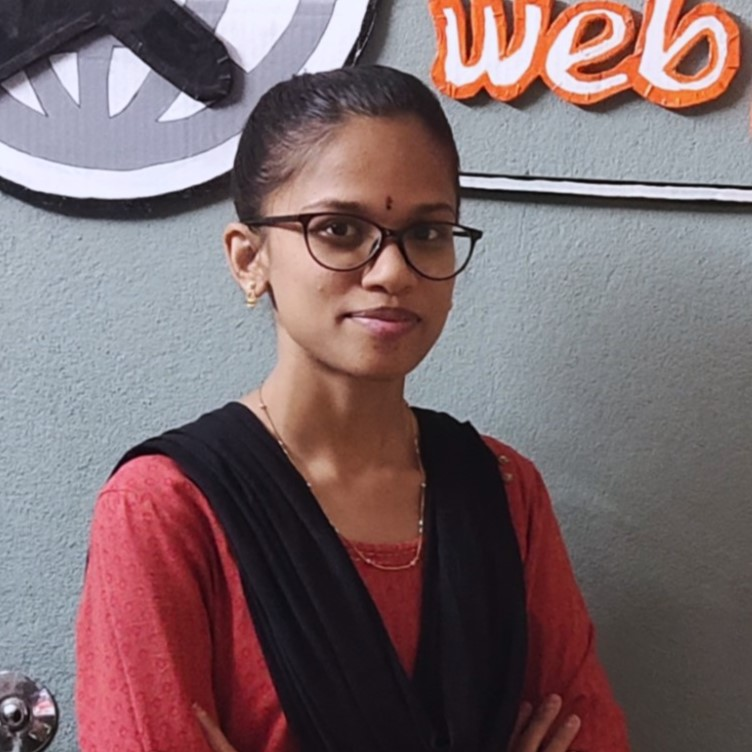
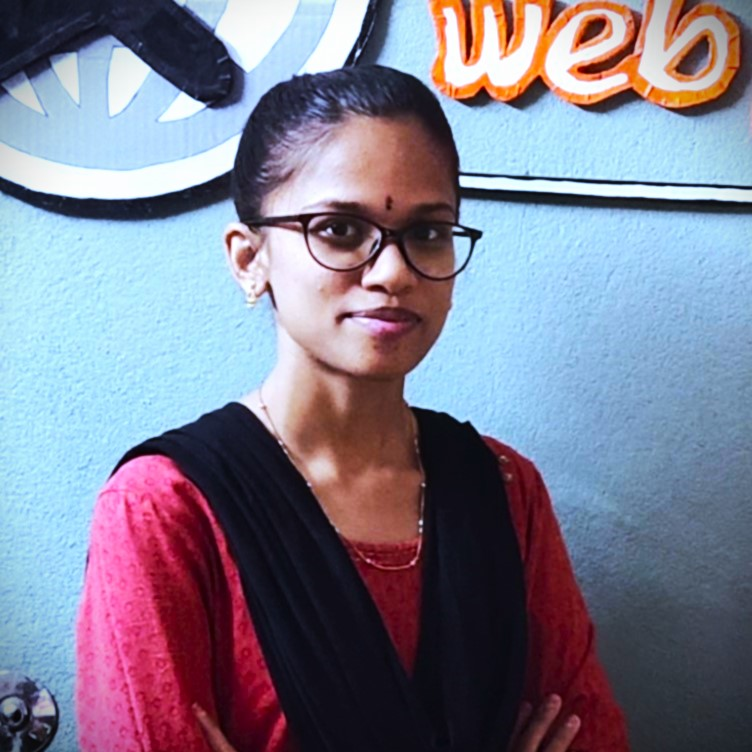
promotion

diff --git a/index.html b/index.html
@@ -254,9 +254,10 @@ https://templatemo.com/tm-588-ebook-landing
                 <div class="event-card">
                     <div class="sticker">Just ₹50</div>
                   <div class="event-title">Quizathon Night</div>
-                  <div class="event-date">09th March 2025</div>
-                  <p><b>Syllabus: </b>HTML</p>
-                  <a class="event-link" href="https://example.com" target="_blank">Register here</a>
+                  <!-- <div class="event-date">09th March 2025</div> -->
+                  <!-- <p><b>Syllabus: </b>HTML</p> -->
+                  <!-- <a class="event-link" href="https://example.com" target="_blank">Register here</a> -->
+                    <b>Launch Soon...</b>
             </div>
         </div>
         
@@ -345,7 +346,7 @@ https://templatemo.com/tm-588-ebook-landing
 
                                 <div class="mySlides fade">
 
-                                    <img src="https://res.cloudinary.com/dqg8ameoa/image/upload/v1746432518/2_wa6kfu.jpg"
+                                    <img src="https://res.cloudinary.com/dqg8ameoa/image/upload/v1747545179/WhatsApp_Image_2025-05-12_at_18.44.13_9b69c14e_qel2mx.jpg"
                                         alt="img10" style="width:100%">
 
                                 </div>
@@ -458,7 +459,7 @@ https://templatemo.com/tm-588-ebook-landing
                         <img src="./images/teamMembers/rupa.jpg" alt="" />
                         <div class="data-div">
                             <h5 style="font-weight: bold;">Rupa Sree D</h5>
-                            <b>Vice-Chairman</b>
+                            <b>Vice-Chairman & HR</b>
                         </div>
                         <div class="icons">
                             <a target="_blank" href="https://www.linkedin.com/in/dandala-rupa-sree-837731230">Linked <i
@@ -491,6 +492,18 @@ https://templatemo.com/tm-588-ebook-landing
                         </div>
                     </div>
 
+                    <div class="data">
+                        <img src="./images/teamMembers/rishi.jpg" alt="" />
+                        <div class="data-div">
+                            <h5 style="font-weight: bold;">Rishikeshav T</h5>
+                            <b>Social Media Coordinator</b>
+                        </div>
+                        <div class="icons">
+                            <a target="_blank" href="https://www.linkedin.com/in/konduru-sravan-629bb4272">Linked <i
+                                    class="fab fa-linkedin"></i></a>
+                        </div>
+                    </div>
+
                     <!-- <div class="data">
                         <img src="./images/teamMembers/bhavyareddy.jpg" alt="" />
                         <div class="data-div">
@@ -505,7 +518,7 @@ https://templatemo.com/tm-588-ebook-landing
                     </div> -->
 
 
-                    <div class="data">
+                    <!-- <div class="data">
                         <img src="./images/teamMembers/bilvini.jpg" alt="" />
                         <div class="data-div">
                             <h5 style="font-weight: bold;">Bilvini R</h5>
@@ -515,33 +528,8 @@ https://templatemo.com/tm-588-ebook-landing
                             <a target="_blank" href="https://www.linkedin.com/in/bilvini-rachamalla-96546624a">Linked <i
                                     class="fab fa-linkedin"></i></a>
                         </div>
-                    </div>
+                    </div> -->
 
-
-                    <div class="data">
-                        <img src="./images/teamMembers/bindu.jpg" alt="" />
-                        <div class="data-div">
-                            <h5 style="font-weight: bold;">Bindu A</h5>
-                            <b>Web Trainer</b>
-                        </div>
-                        <div class="icons">
-                            <a target="_blank" href="https://www.linkedin.com/in/bindu-a-b2381b25b">Linked <i
-                                    class="fab fa-linkedin"></i></a>
-                        </div>
-                    </div>
-
-
-                    <div class="data">
-                        <img src="./images/teamMembers/bhaskar.jpg" alt="" />
-                        <div class="data-div">
-                            <h5 style="font-weight: bold;">Bhaskar K</h5>
-                            <b>Web Trainer</b>
-                        </div>
-                        <div class="icons">
-                            <a target="_blank" href="https://www.linkedin.com/in/katipogula-bhaskar-33a972272">Linked <i
-                                    class="fab fa-linkedin"></i></a>
-                        </div>
-                    </div>
 
                     <!-- <div class="data">
                         <img src="./images/teamMembers/anuhya.jpg" alt="" />
@@ -594,19 +582,6 @@ https://templatemo.com/tm-588-ebook-landing
 
 
                     <div class="data">
-                        <img src="./images/teamMembers/pavan.jpg" alt="" />
-                        <div class="data-div">
-                            <h5 style="font-weight: bold;">Pavan P</h5>
-                            <b>Cyber Security Trainer</b>
-                        </div>
-                        <div class="icons">
-                            <a target="_blank" href="https://www.linkedin.com/in/pavan-kalyan-reddy-366248259/">Linked <i
-                                    class="fab fa-linkedin"></i></a>
-                        </div>
-                    </div>
-
-
-                    <div class="data">
                         <img src="./images/teamMembers/vaishnavi.jpg" alt="" />
                         <div class="data-div">
                             <h5 style="font-weight: bold;">Vaishnavi M</h5>
@@ -614,6 +589,42 @@ https://templatemo.com/tm-588-ebook-landing
                         </div>
                         <div class="icons">
                             <a target="_blank" href="https://www.linkedin.com/in/vaishnavimangati/">Linked <i
+                                    class="fab fa-linkedin"></i></a>
+                        </div>
+                    </div>
+
+                    <div class="data">
+                        <img src="./images/teamMembers/ganesh.jpg" alt="" />
+                        <div class="data-div">
+                            <h5 style="font-weight: bold;">Ganesh Reddy Y</h5>
+                            <b>Data Science Trainer</b>
+                        </div>
+                        <div class="icons">
+                            <a target="_blank" href="https://www.linkedin.com/in/venkat-ganesh-reddy-aa8329285/">Linked <i
+                                    class="fab fa-linkedin"></i></a>
+                        </div>
+                    </div>
+
+                    <div class="data">
+                        <img src="./images/teamMembers/charishma.jpg" alt="" />
+                        <div class="data-div">
+                            <h5 style="font-weight: bold;">Charishma S</h5>
+                            <b>AI/ML Trainer</b>
+                        </div>
+                        <div class="icons">
+                            <a target="_blank" href="https://www.linkedin.com/in/charishma-sirigiri/">Linked <i
+                                    class="fab fa-linkedin"></i></a>
+                        </div>
+                    </div>
+
+                    <div class="data">
+                        <img src="./images/teamMembers/sainath.jpg" alt="" />
+                        <div class="data-div">
+                            <h5 style="font-weight: bold;">Sainath A</h5>
+                            <b>Cyber Trainer</b>
+                        </div>
+                        <div class="icons">
+                            <a target="_blank" href="https://www.linkedin.com/in/sainathreddyakkala/">Linked <i
                                     class="fab fa-linkedin"></i></a>
                         </div>
                     </div>

diff --git a/css/templatemo-ebook-landing.css b/css/templatemo-ebook-landing.css
@@ -1893,7 +1893,7 @@ p.text-muted {
   text-align: center;
   width: 100%;
   display: grid;
-  grid-template-columns: repeat(6,1fr); 
+  grid-template-columns: repeat(5,1fr); 
   grid-auto-rows: auto;
   gap: 10px; 
   transition: 1s;
